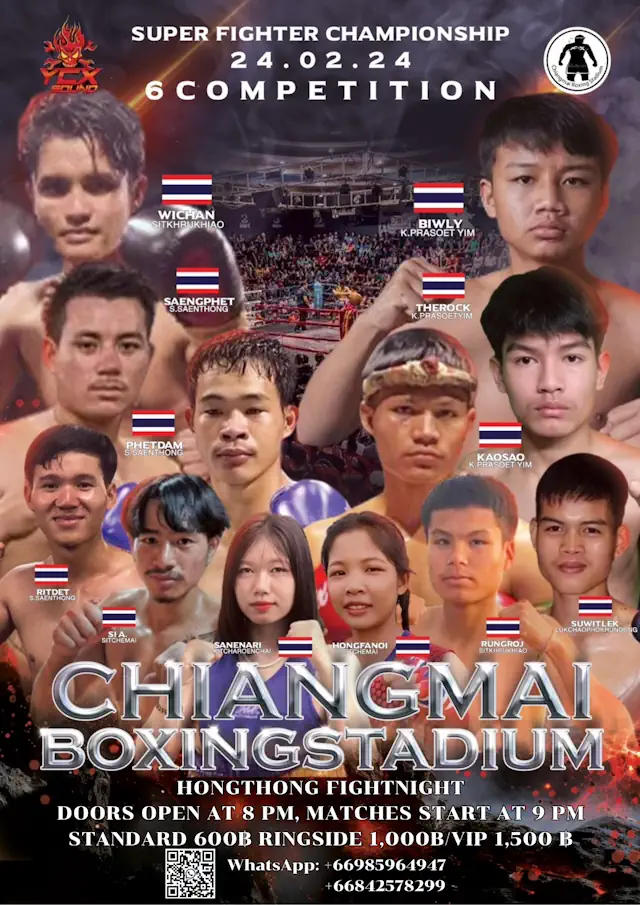
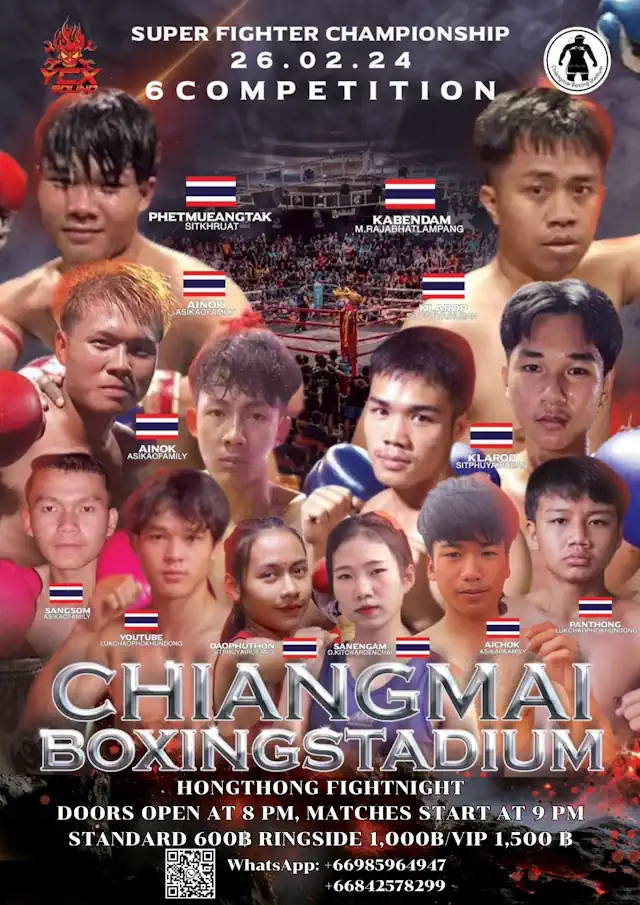
1

diff --git a/utils/20Chiangmaiplus.js b/utils/20Chiangmaiplus.js
@@ -1,6 +1,6 @@
 const moment = require('moment-timezone');
 
-let startDate = moment.tz('2024-02-23 21:00', 'Asia/Bangkok');
+let startDate = moment.tz('2024-02-26 21:00', 'Asia/Bangkok');
 const events = [];
 
 const numberOfDays = 4;
